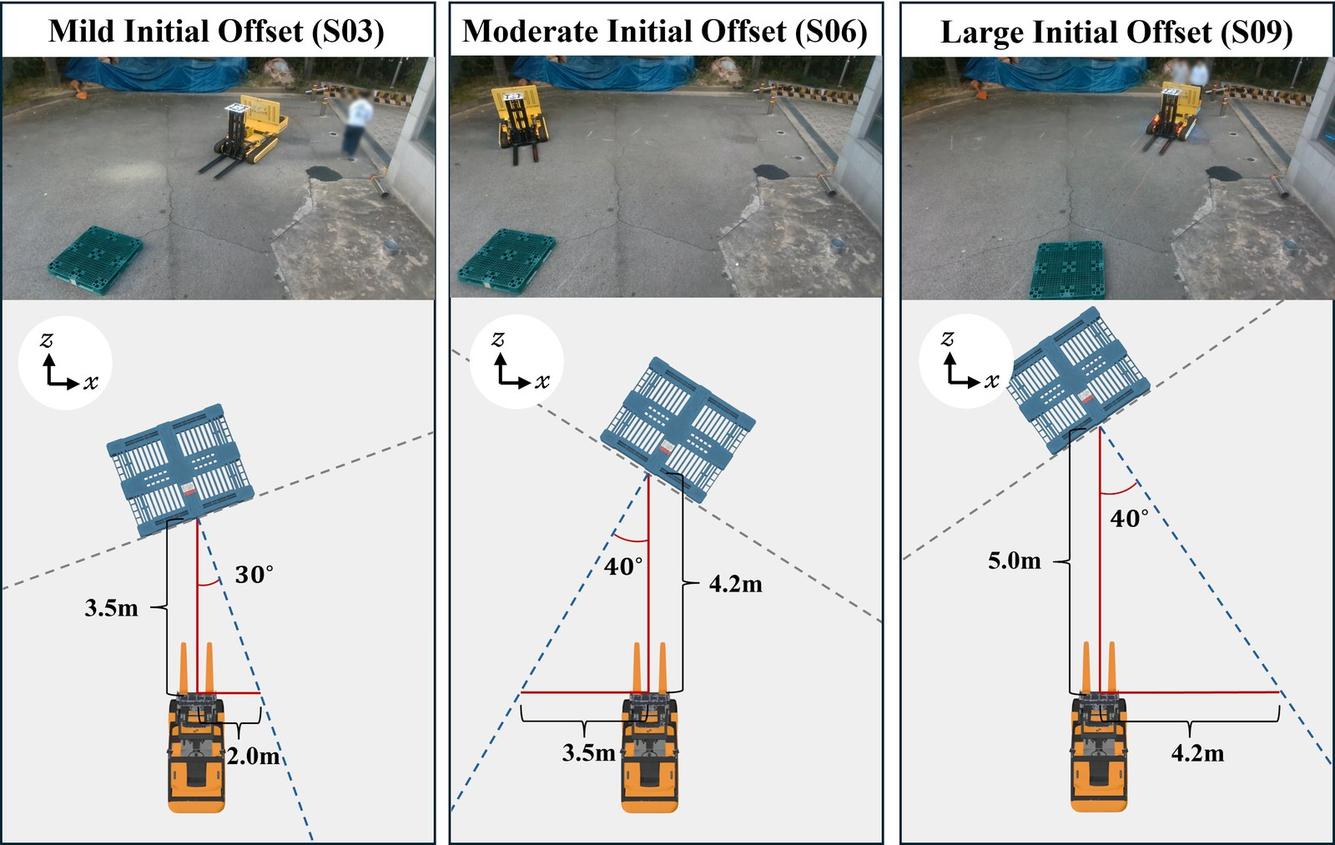
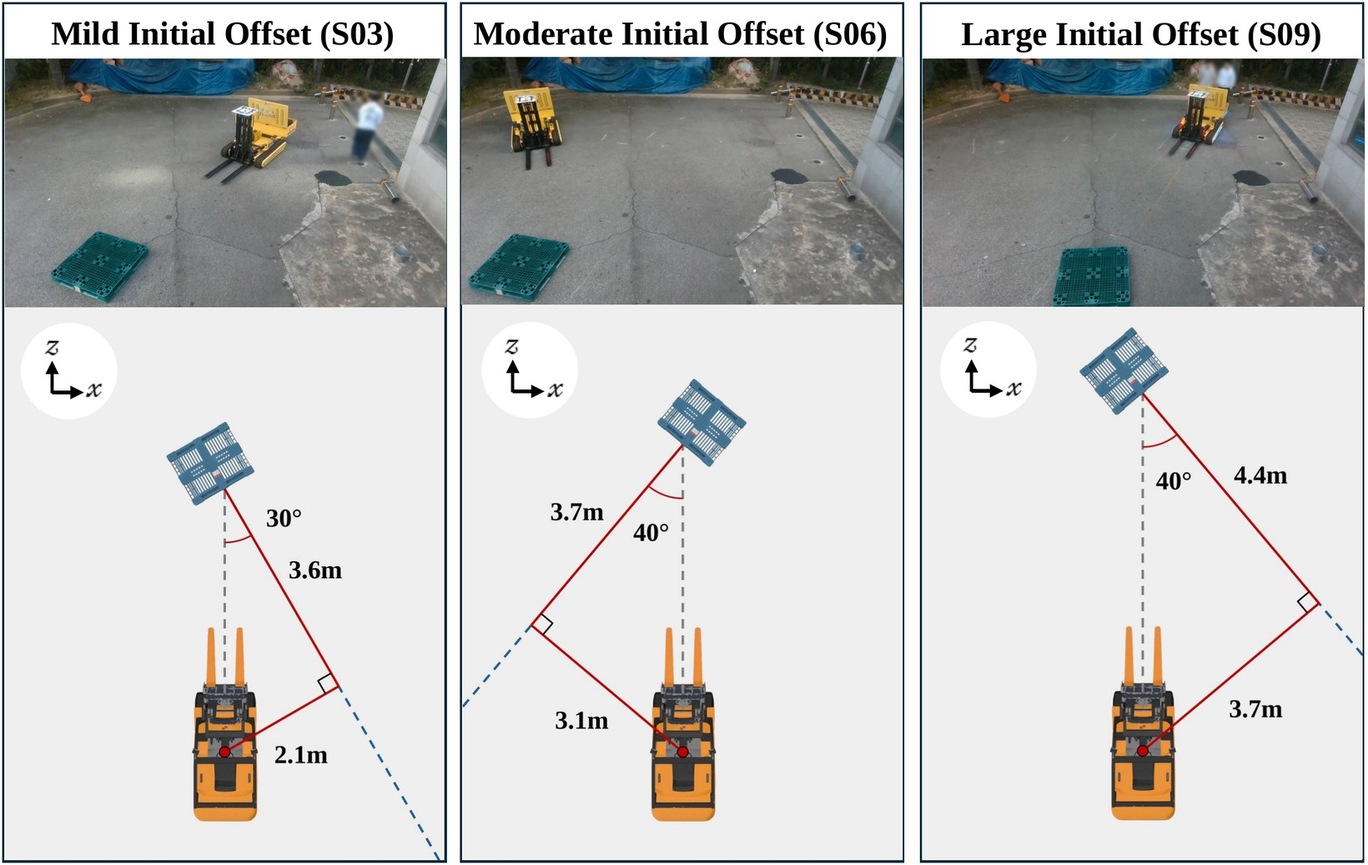
Describe initial configurations relative to the rotation center

diff --git a/index.html b/index.html
@@ -24,8 +24,9 @@
   The overhead camera and the forklift AprilTag are used only for evaluation.
   <a href="https://github.com/Anieyo0/forklift-pallet-alignment">Repository</a></p>
   <img class="fig" src="assets/representative_initial_configs.jpg" alt="Representative initial configurations (S03, S06, S09)">
+  <p class="sub">Distances are measured from the forklift's rotation center c, the center of the tracked base, which lies 0.68 m behind the camera. d<sub>lateral</sub> is the perpendicular distance from c to the pallet insertion axis (the line through the pallet front center along the fork insertion direction); it is positive when c is to the right of the axis, facing the insertion direction. d<sub>forward</sub> is the distance from c to the pallet front, measured along the insertion axis. ψ is the pallet yaw, the angle between the fork insertion direction and the camera forward axis (clockwise positive, viewed from above). When d<sub>lateral</sub> = 0 and ψ = 0, the forklift centerline lies on the insertion axis. Distances are rounded to 0.1 m.</p>
   <section id="S01">
-    <h2>S01 <span>Mild initial offset · 3.0 m ahead, yaw 0° · lateral offset 0.0 m</span></h2>
+    <h2>S01 <span>Mild initial offset · d<sub>forward</sub> 3.7 m · d<sub>lateral</sub> 0.0 m · ψ 0°</span></h2>
     <div class="row">
       <figure><video controls preload="none" poster="scenarios/S01/S01_A.jpg" src="scenarios/S01/S01_A_trajectory.mp4"></video><figcaption>Trial A</figcaption></figure>
       <figure><video controls preload="none" poster="scenarios/S01/S01_B.jpg" src="scenarios/S01/S01_B_trajectory.mp4"></video><figcaption>Trial B</figcaption></figure>
@@ -33,7 +34,7 @@
     </div>
   </section>
   <section id="S02">
-    <h2>S02 <span>Mild initial offset · 3.2 m ahead, yaw +15° · lateral offset 0.9 m</span></h2>
+    <h2>S02 <span>Mild initial offset · d<sub>forward</sub> 3.7 m · d<sub>lateral</sub> 1.0 m · ψ +15°</span></h2>
     <div class="row">
       <figure><video controls preload="none" poster="scenarios/S02/S02_A.jpg" src="scenarios/S02/S02_A_trajectory.mp4"></video><figcaption>Trial A</figcaption></figure>
       <figure><video controls preload="none" poster="scenarios/S02/S02_B.jpg" src="scenarios/S02/S02_B_trajectory.mp4"></video><figcaption>Trial B</figcaption></figure>
@@ -41,7 +42,7 @@
     </div>
   </section>
   <section id="S03">
-    <h2>S03 <span>Mild initial offset · 3.5 m ahead, yaw -30° · lateral offset -2.0 m</span></h2>
+    <h2>S03 <span>Mild initial offset · d<sub>forward</sub> 3.6 m · d<sub>lateral</sub> -2.1 m · ψ -30°</span></h2>
     <div class="row">
       <figure><video controls preload="none" poster="scenarios/S03/S03_A.jpg" src="scenarios/S03/S03_A_trajectory.mp4"></video><figcaption>Trial A</figcaption></figure>
       <figure><video controls preload="none" poster="scenarios/S03/S03_B.jpg" src="scenarios/S03/S03_B_trajectory.mp4"></video><figcaption>Trial B</figcaption></figure>
@@ -49,7 +50,7 @@
     </div>
   </section>
   <section id="S04">
-    <h2>S04 <span>Moderate initial offset · 3.8 m ahead, yaw +30° · lateral offset 2.2 m</span></h2>
+    <h2>S04 <span>Moderate initial offset · d<sub>forward</sub> 3.9 m · d<sub>lateral</sub> 2.2 m · ψ +30°</span></h2>
     <div class="row">
       <figure><video controls preload="none" poster="scenarios/S04/S04_A.jpg" src="scenarios/S04/S04_A_trajectory.mp4"></video><figcaption>Trial A</figcaption></figure>
       <figure><video controls preload="none" poster="scenarios/S04/S04_B.jpg" src="scenarios/S04/S04_B_trajectory.mp4"></video><figcaption>Trial B</figcaption></figure>
@@ -57,7 +58,7 @@
     </div>
   </section>
   <section id="S05">
-    <h2>S05 <span>Moderate initial offset · 4.0 m ahead, yaw -30° · lateral offset -2.3 m</span></h2>
+    <h2>S05 <span>Moderate initial offset · d<sub>forward</sub> 4.1 m · d<sub>lateral</sub> -2.3 m · ψ -30°</span></h2>
     <div class="row">
       <figure><video controls preload="none" poster="scenarios/S05/S05_A.jpg" src="scenarios/S05/S05_A_trajectory.mp4"></video><figcaption>Trial A</figcaption></figure>
       <figure><video controls preload="none" poster="scenarios/S05/S05_B.jpg" src="scenarios/S05/S05_B_trajectory.mp4"></video><figcaption>Trial B</figcaption></figure>
@@ -65,7 +66,7 @@
     </div>
   </section>
   <section id="S06">
-    <h2>S06 <span>Moderate initial offset · 4.2 m ahead, yaw +40° · lateral offset 3.5 m</span></h2>
+    <h2>S06 <span>Moderate initial offset · d<sub>forward</sub> 3.7 m · d<sub>lateral</sub> 3.1 m · ψ +40°</span></h2>
     <div class="row">
       <figure><video controls preload="none" poster="scenarios/S06/S06_A.jpg" src="scenarios/S06/S06_A_trajectory.mp4"></video><figcaption>Trial A</figcaption></figure>
       <figure><video controls preload="none" poster="scenarios/S06/S06_B.jpg" src="scenarios/S06/S06_B_trajectory.mp4"></video><figcaption>Trial B</figcaption></figure>
@@ -73,7 +74,7 @@
     </div>
   </section>
   <section id="S07">
-    <h2>S07 <span>Large initial offset · 4.5 m ahead, yaw -40° · lateral offset -3.8 m</span></h2>
+    <h2>S07 <span>Large initial offset · d<sub>forward</sub> 4.0 m · d<sub>lateral</sub> -3.3 m · ψ -40°</span></h2>
     <div class="row">
       <figure><video controls preload="none" poster="scenarios/S07/S07_A.jpg" src="scenarios/S07/S07_A_trajectory.mp4"></video><figcaption>Trial A</figcaption></figure>
       <figure><video controls preload="none" poster="scenarios/S07/S07_B.jpg" src="scenarios/S07/S07_B_trajectory.mp4"></video><figcaption>Trial B</figcaption></figure>
@@ -81,7 +82,7 @@
     </div>
   </section>
   <section id="S08">
-    <h2>S08 <span>Large initial offset · 4.7 m ahead, yaw +40° · lateral offset 3.9 m</span></h2>
+    <h2>S08 <span>Large initial offset · d<sub>forward</sub> 4.1 m · d<sub>lateral</sub> 3.5 m · ψ +40°</span></h2>
     <div class="row">
       <figure><video controls preload="none" poster="scenarios/S08/S08_A.jpg" src="scenarios/S08/S08_A_trajectory.mp4"></video><figcaption>Trial A</figcaption></figure>
       <figure><video controls preload="none" poster="scenarios/S08/S08_B.jpg" src="scenarios/S08/S08_B_trajectory.mp4"></video><figcaption>Trial B</figcaption></figure>
@@ -89,7 +90,7 @@
     </div>
   </section>
   <section id="S09">
-    <h2>S09 <span>Large initial offset · 5.0 m ahead, yaw -40° · lateral offset -4.2 m</span></h2>
+    <h2>S09 <span>Large initial offset · d<sub>forward</sub> 4.4 m · d<sub>lateral</sub> -3.7 m · ψ -40°</span></h2>
     <div class="row">
       <figure><video controls preload="none" poster="scenarios/S09/S09_A.jpg" src="scenarios/S09/S09_A_trajectory.mp4"></video><figcaption>Trial A</figcaption></figure>
       <figure><video controls preload="none" poster="scenarios/S09/S09_B.jpg" src="scenarios/S09/S09_B_trajectory.mp4"></video><figcaption>Trial B</figcaption></figure>

diff --git a/README.md b/README.md
@@ -22,22 +22,22 @@ are used **only for evaluation**; they are not inputs to the controller.
 <img src="assets/representative_initial_configs.jpg" width="820">
 
 Representative initial configurations of the three groups (S03, S06, S09).
-In every scenario the pallet front center is placed on the camera forward axis. d<sub>forward</sub> is the forward distance from the camera to the pallet front, ψ is the pallet yaw, the angle between the fork insertion direction and the camera forward axis (clockwise positive, viewed from above), and δ<sub>0</sub> = d<sub>forward</sub> tan ψ is the lateral offset of the camera from the pallet insertion axis.
+In every scenario the pallet front center is placed straight ahead of the camera. Distances are measured from the forklift's rotation center c, the center of the tracked base, which lies 0.68 m behind the camera. d<sub>lateral</sub> is the perpendicular distance from c to the pallet insertion axis (the line through the pallet front center along the fork insertion direction); it is positive when c is to the right of the axis, facing the insertion direction. d<sub>forward</sub> is the distance from c to the pallet front, measured along the insertion axis. ψ is the pallet yaw, the angle between the fork insertion direction and the camera forward axis (clockwise positive, viewed from above). When d<sub>lateral</sub> = 0 and ψ = 0, the forklift centerline lies on the insertion axis. Distances are rounded to 0.1 m.
 Scenarios are grouped into Mild, Moderate and Large by the size of the initial offset.
 
 Thumbnails show the first frame of each video. Click a scenario for its page, or a thumbnail to open the video.
 
-| Group | Scenario | d<sub>forward</sub> (m) | ψ (°) | δ<sub>0</sub> (m) | Trial A | Trial B | Trial C |
+| Group | Scenario | d<sub>forward</sub> (m) | d<sub>lateral</sub> (m) | ψ (°) | Trial A | Trial B | Trial C |
 |---|---|---|---|---|---|---|---|
-| Mild | [**S01**](scenarios/S01) | 3.0 | 0 | 0.0 | [<img src="scenarios/S01/S01_A.jpg" width="160">](scenarios/S01/S01_A_trajectory.mp4) | [<img src="scenarios/S01/S01_B.jpg" width="160">](scenarios/S01/S01_B_trajectory.mp4) | [<img src="scenarios/S01/S01_C.jpg" width="160">](scenarios/S01/S01_C_trajectory.mp4) |
-|  | [**S02**](scenarios/S02) | 3.2 | 15 | 0.9 | [<img src="scenarios/S02/S02_A.jpg" width="160">](scenarios/S02/S02_A_trajectory.mp4) | [<img src="scenarios/S02/S02_B.jpg" width="160">](scenarios/S02/S02_B_trajectory.mp4) | [<img src="scenarios/S02/S02_C.jpg" width="160">](scenarios/S02/S02_C_trajectory.mp4) |
-|  | [**S03**](scenarios/S03) | 3.5 | -30 | -2.0 | [<img src="scenarios/S03/S03_A.jpg" width="160">](scenarios/S03/S03_A_trajectory.mp4) | [<img src="scenarios/S03/S03_B.jpg" width="160">](scenarios/S03/S03_B_trajectory.mp4) | [<img src="scenarios/S03/S03_C.jpg" width="160">](scenarios/S03/S03_C_trajectory.mp4) |
-| Moderate | [**S04**](scenarios/S04) | 3.8 | 30 | 2.2 | [<img src="scenarios/S04/S04_A.jpg" width="160">](scenarios/S04/S04_A_trajectory.mp4) | [<img src="scenarios/S04/S04_B.jpg" width="160">](scenarios/S04/S04_B_trajectory.mp4) | [<img src="scenarios/S04/S04_C.jpg" width="160">](scenarios/S04/S04_C_trajectory.mp4) |
-|  | [**S05**](scenarios/S05) | 4.0 | -30 | -2.3 | [<img src="scenarios/S05/S05_A.jpg" width="160">](scenarios/S05/S05_A_trajectory.mp4) | [<img src="scenarios/S05/S05_B.jpg" width="160">](scenarios/S05/S05_B_trajectory.mp4) | [<img src="scenarios/S05/S05_C.jpg" width="160">](scenarios/S05/S05_C_trajectory.mp4) |
-|  | [**S06**](scenarios/S06) | 4.2 | 40 | 3.5 | [<img src="scenarios/S06/S06_A.jpg" width="160">](scenarios/S06/S06_A_trajectory.mp4) | [<img src="scenarios/S06/S06_B.jpg" width="160">](scenarios/S06/S06_B_trajectory.mp4) | [<img src="scenarios/S06/S06_C.jpg" width="160">](scenarios/S06/S06_C_trajectory.mp4) |
-| Large | [**S07**](scenarios/S07) | 4.5 | -40 | -3.8 | [<img src="scenarios/S07/S07_A.jpg" width="160">](scenarios/S07/S07_A_trajectory.mp4) | [<img src="scenarios/S07/S07_B.jpg" width="160">](scenarios/S07/S07_B_trajectory.mp4) | [<img src="scenarios/S07/S07_C.jpg" width="160">](scenarios/S07/S07_C_trajectory.mp4) |
-|  | [**S08**](scenarios/S08) | 4.7 | 40 | 3.9 | [<img src="scenarios/S08/S08_A.jpg" width="160">](scenarios/S08/S08_A_trajectory.mp4) | [<img src="scenarios/S08/S08_B.jpg" width="160">](scenarios/S08/S08_B_trajectory.mp4) | [<img src="scenarios/S08/S08_C.jpg" width="160">](scenarios/S08/S08_C_trajectory.mp4) |
-|  | [**S09**](scenarios/S09) | 5.0 | -40 | -4.2 | [<img src="scenarios/S09/S09_A.jpg" width="160">](scenarios/S09/S09_A_trajectory.mp4) | [<img src="scenarios/S09/S09_B.jpg" width="160">](scenarios/S09/S09_B_trajectory.mp4) | [<img src="scenarios/S09/S09_C.jpg" width="160">](scenarios/S09/S09_C_trajectory.mp4) |
+| Mild | [**S01**](scenarios/S01) | 3.7 | 0.0 | 0 | [<img src="scenarios/S01/S01_A.jpg" width="160">](scenarios/S01/S01_A_trajectory.mp4) | [<img src="scenarios/S01/S01_B.jpg" width="160">](scenarios/S01/S01_B_trajectory.mp4) | [<img src="scenarios/S01/S01_C.jpg" width="160">](scenarios/S01/S01_C_trajectory.mp4) |
+|  | [**S02**](scenarios/S02) | 3.7 | 1.0 | 15 | [<img src="scenarios/S02/S02_A.jpg" width="160">](scenarios/S02/S02_A_trajectory.mp4) | [<img src="scenarios/S02/S02_B.jpg" width="160">](scenarios/S02/S02_B_trajectory.mp4) | [<img src="scenarios/S02/S02_C.jpg" width="160">](scenarios/S02/S02_C_trajectory.mp4) |
+|  | [**S03**](scenarios/S03) | 3.6 | -2.1 | -30 | [<img src="scenarios/S03/S03_A.jpg" width="160">](scenarios/S03/S03_A_trajectory.mp4) | [<img src="scenarios/S03/S03_B.jpg" width="160">](scenarios/S03/S03_B_trajectory.mp4) | [<img src="scenarios/S03/S03_C.jpg" width="160">](scenarios/S03/S03_C_trajectory.mp4) |
+| Moderate | [**S04**](scenarios/S04) | 3.9 | 2.2 | 30 | [<img src="scenarios/S04/S04_A.jpg" width="160">](scenarios/S04/S04_A_trajectory.mp4) | [<img src="scenarios/S04/S04_B.jpg" width="160">](scenarios/S04/S04_B_trajectory.mp4) | [<img src="scenarios/S04/S04_C.jpg" width="160">](scenarios/S04/S04_C_trajectory.mp4) |
+|  | [**S05**](scenarios/S05) | 4.1 | -2.3 | -30 | [<img src="scenarios/S05/S05_A.jpg" width="160">](scenarios/S05/S05_A_trajectory.mp4) | [<img src="scenarios/S05/S05_B.jpg" width="160">](scenarios/S05/S05_B_trajectory.mp4) | [<img src="scenarios/S05/S05_C.jpg" width="160">](scenarios/S05/S05_C_trajectory.mp4) |
+|  | [**S06**](scenarios/S06) | 3.7 | 3.1 | 40 | [<img src="scenarios/S06/S06_A.jpg" width="160">](scenarios/S06/S06_A_trajectory.mp4) | [<img src="scenarios/S06/S06_B.jpg" width="160">](scenarios/S06/S06_B_trajectory.mp4) | [<img src="scenarios/S06/S06_C.jpg" width="160">](scenarios/S06/S06_C_trajectory.mp4) |
+| Large | [**S07**](scenarios/S07) | 4.0 | -3.3 | -40 | [<img src="scenarios/S07/S07_A.jpg" width="160">](scenarios/S07/S07_A_trajectory.mp4) | [<img src="scenarios/S07/S07_B.jpg" width="160">](scenarios/S07/S07_B_trajectory.mp4) | [<img src="scenarios/S07/S07_C.jpg" width="160">](scenarios/S07/S07_C_trajectory.mp4) |
+|  | [**S08**](scenarios/S08) | 4.1 | 3.5 | 40 | [<img src="scenarios/S08/S08_A.jpg" width="160">](scenarios/S08/S08_A_trajectory.mp4) | [<img src="scenarios/S08/S08_B.jpg" width="160">](scenarios/S08/S08_B_trajectory.mp4) | [<img src="scenarios/S08/S08_C.jpg" width="160">](scenarios/S08/S08_C_trajectory.mp4) |
+|  | [**S09**](scenarios/S09) | 4.4 | -3.7 | -40 | [<img src="scenarios/S09/S09_A.jpg" width="160">](scenarios/S09/S09_A_trajectory.mp4) | [<img src="scenarios/S09/S09_B.jpg" width="160">](scenarios/S09/S09_B_trajectory.mp4) | [<img src="scenarios/S09/S09_C.jpg" width="160">](scenarios/S09/S09_C_trajectory.mp4) |
 
 Each video shows the overhead top-view recording with the tracked forklift trajectory and a scenario label.
 Audio tracks and file metadata were removed from all videos. People appearing in the videos consented to publication.

diff --git a/scenarios/S03/README.md b/scenarios/S03/README.md
@@ -4,11 +4,11 @@
 
 ## Initial configuration
 
-| d<sub>forward</sub> (m) | ψ (°) | δ<sub>0</sub> (m) |
+| d<sub>forward</sub> (m) | d<sub>lateral</sub> (m) | ψ (°) |
 |---|---|---|
-| 3.5 | -30 | -2.0 |
+| 3.6 | -2.1 | -30 |
 
-The pallet front center is placed on the camera forward axis. d<sub>forward</sub> is the forward distance from the camera to the pallet front, ψ is the pallet yaw, the angle between the fork insertion direction and the camera forward axis (clockwise positive, viewed from above), and δ<sub>0</sub> = d<sub>forward</sub> tan ψ is the lateral offset of the camera from the pallet insertion axis.
+The pallet front center is placed straight ahead of the camera. Distances are measured from the forklift's rotation center c, the center of the tracked base, which lies 0.68 m behind the camera. d<sub>lateral</sub> is the perpendicular distance from c to the pallet insertion axis (the line through the pallet front center along the fork insertion direction); it is positive when c is to the right of the axis, facing the insertion direction. d<sub>forward</sub> is the distance from c to the pallet front, measured along the insertion axis. ψ is the pallet yaw, the angle between the fork insertion direction and the camera forward axis (clockwise positive, viewed from above). When d<sub>lateral</sub> = 0 and ψ = 0, the forklift centerline lies on the insertion axis. Distances are rounded to 0.1 m.
 
 ## Trials
 

diff --git a/scenarios/S05/README.md b/scenarios/S05/README.md
@@ -4,11 +4,11 @@
 
 ## Initial configuration
 
-| d<sub>forward</sub> (m) | ψ (°) | δ<sub>0</sub> (m) |
+| d<sub>forward</sub> (m) | d<sub>lateral</sub> (m) | ψ (°) |
 |---|---|---|
-| 4.0 | -30 | -2.3 |
+| 4.1 | -2.3 | -30 |
 
-The pallet front center is placed on the camera forward axis. d<sub>forward</sub> is the forward distance from the camera to the pallet front, ψ is the pallet yaw, the angle between the fork insertion direction and the camera forward axis (clockwise positive, viewed from above), and δ<sub>0</sub> = d<sub>forward</sub> tan ψ is the lateral offset of the camera from the pallet insertion axis.
+The pallet front center is placed straight ahead of the camera. Distances are measured from the forklift's rotation center c, the center of the tracked base, which lies 0.68 m behind the camera. d<sub>lateral</sub> is the perpendicular distance from c to the pallet insertion axis (the line through the pallet front center along the fork insertion direction); it is positive when c is to the right of the axis, facing the insertion direction. d<sub>forward</sub> is the distance from c to the pallet front, measured along the insertion axis. ψ is the pallet yaw, the angle between the fork insertion direction and the camera forward axis (clockwise positive, viewed from above). When d<sub>lateral</sub> = 0 and ψ = 0, the forklift centerline lies on the insertion axis. Distances are rounded to 0.1 m.
 
 ## Trials
 

diff --git a/scenarios/S07/README.md b/scenarios/S07/README.md
@@ -4,11 +4,11 @@
 
 ## Initial configuration
 
-| d<sub>forward</sub> (m) | ψ (°) | δ<sub>0</sub> (m) |
+| d<sub>forward</sub> (m) | d<sub>lateral</sub> (m) | ψ (°) |
 |---|---|---|
-| 4.5 | -40 | -3.8 |
+| 4.0 | -3.3 | -40 |
 
-The pallet front center is placed on the camera forward axis. d<sub>forward</sub> is the forward distance from the camera to the pallet front, ψ is the pallet yaw, the angle between the fork insertion direction and the camera forward axis (clockwise positive, viewed from above), and δ<sub>0</sub> = d<sub>forward</sub> tan ψ is the lateral offset of the camera from the pallet insertion axis.
+The pallet front center is placed straight ahead of the camera. Distances are measured from the forklift's rotation center c, the center of the tracked base, which lies 0.68 m behind the camera. d<sub>lateral</sub> is the perpendicular distance from c to the pallet insertion axis (the line through the pallet front center along the fork insertion direction); it is positive when c is to the right of the axis, facing the insertion direction. d<sub>forward</sub> is the distance from c to the pallet front, measured along the insertion axis. ψ is the pallet yaw, the angle between the fork insertion direction and the camera forward axis (clockwise positive, viewed from above). When d<sub>lateral</sub> = 0 and ψ = 0, the forklift centerline lies on the insertion axis. Distances are rounded to 0.1 m.
 
 ## Trials
 

diff --git a/scenarios/S09/README.md b/scenarios/S09/README.md
@@ -4,11 +4,11 @@
 
 ## Initial configuration
 
-| d<sub>forward</sub> (m) | ψ (°) | δ<sub>0</sub> (m) |
+| d<sub>forward</sub> (m) | d<sub>lateral</sub> (m) | ψ (°) |
 |---|---|---|
-| 5.0 | -40 | -4.2 |
+| 4.4 | -3.7 | -40 |
 
-The pallet front center is placed on the camera forward axis. d<sub>forward</sub> is the forward distance from the camera to the pallet front, ψ is the pallet yaw, the angle between the fork insertion direction and the camera forward axis (clockwise positive, viewed from above), and δ<sub>0</sub> = d<sub>forward</sub> tan ψ is the lateral offset of the camera from the pallet insertion axis.
+The pallet front center is placed straight ahead of the camera. Distances are measured from the forklift's rotation center c, the center of the tracked base, which lies 0.68 m behind the camera. d<sub>lateral</sub> is the perpendicular distance from c to the pallet insertion axis (the line through the pallet front center along the fork insertion direction); it is positive when c is to the right of the axis, facing the insertion direction. d<sub>forward</sub> is the distance from c to the pallet front, measured along the insertion axis. ψ is the pallet yaw, the angle between the fork insertion direction and the camera forward axis (clockwise positive, viewed from above). When d<sub>lateral</sub> = 0 and ψ = 0, the forklift centerline lies on the insertion axis. Distances are rounded to 0.1 m.
 
 ## Trials
 

diff --git a/scenarios/S02/README.md b/scenarios/S02/README.md
@@ -4,11 +4,11 @@
 
 ## Initial configuration
 
-| d<sub>forward</sub> (m) | ψ (°) | δ<sub>0</sub> (m) |
+| d<sub>forward</sub> (m) | d<sub>lateral</sub> (m) | ψ (°) |
 |---|---|---|
-| 3.2 | 15 | 0.9 |
+| 3.7 | 1.0 | 15 |
 
-The pallet front center is placed on the camera forward axis. d<sub>forward</sub> is the forward distance from the camera to the pallet front, ψ is the pallet yaw, the angle between the fork insertion direction and the camera forward axis (clockwise positive, viewed from above), and δ<sub>0</sub> = d<sub>forward</sub> tan ψ is the lateral offset of the camera from the pallet insertion axis.
+The pallet front center is placed straight ahead of the camera. Distances are measured from the forklift's rotation center c, the center of the tracked base, which lies 0.68 m behind the camera. d<sub>lateral</sub> is the perpendicular distance from c to the pallet insertion axis (the line through the pallet front center along the fork insertion direction); it is positive when c is to the right of the axis, facing the insertion direction. d<sub>forward</sub> is the distance from c to the pallet front, measured along the insertion axis. ψ is the pallet yaw, the angle between the fork insertion direction and the camera forward axis (clockwise positive, viewed from above). When d<sub>lateral</sub> = 0 and ψ = 0, the forklift centerline lies on the insertion axis. Distances are rounded to 0.1 m.
 
 ## Trials
 

diff --git a/scenarios/S04/README.md b/scenarios/S04/README.md
@@ -4,11 +4,11 @@
 
 ## Initial configuration
 
-| d<sub>forward</sub> (m) | ψ (°) | δ<sub>0</sub> (m) |
+| d<sub>forward</sub> (m) | d<sub>lateral</sub> (m) | ψ (°) |
 |---|---|---|
-| 3.8 | 30 | 2.2 |
+| 3.9 | 2.2 | 30 |
 
-The pallet front center is placed on the camera forward axis. d<sub>forward</sub> is the forward distance from the camera to the pallet front, ψ is the pallet yaw, the angle between the fork insertion direction and the camera forward axis (clockwise positive, viewed from above), and δ<sub>0</sub> = d<sub>forward</sub> tan ψ is the lateral offset of the camera from the pallet insertion axis.
+The pallet front center is placed straight ahead of the camera. Distances are measured from the forklift's rotation center c, the center of the tracked base, which lies 0.68 m behind the camera. d<sub>lateral</sub> is the perpendicular distance from c to the pallet insertion axis (the line through the pallet front center along the fork insertion direction); it is positive when c is to the right of the axis, facing the insertion direction. d<sub>forward</sub> is the distance from c to the pallet front, measured along the insertion axis. ψ is the pallet yaw, the angle between the fork insertion direction and the camera forward axis (clockwise positive, viewed from above). When d<sub>lateral</sub> = 0 and ψ = 0, the forklift centerline lies on the insertion axis. Distances are rounded to 0.1 m.
 
 ## Trials
 

diff --git a/scenarios/S06/README.md b/scenarios/S06/README.md
@@ -4,11 +4,11 @@
 
 ## Initial configuration
 
-| d<sub>forward</sub> (m) | ψ (°) | δ<sub>0</sub> (m) |
+| d<sub>forward</sub> (m) | d<sub>lateral</sub> (m) | ψ (°) |
 |---|---|---|
-| 4.2 | 40 | 3.5 |
+| 3.7 | 3.1 | 40 |
 
-The pallet front center is placed on the camera forward axis. d<sub>forward</sub> is the forward distance from the camera to the pallet front, ψ is the pallet yaw, the angle between the fork insertion direction and the camera forward axis (clockwise positive, viewed from above), and δ<sub>0</sub> = d<sub>forward</sub> tan ψ is the lateral offset of the camera from the pallet insertion axis.
+The pallet front center is placed straight ahead of the camera. Distances are measured from the forklift's rotation center c, the center of the tracked base, which lies 0.68 m behind the camera. d<sub>lateral</sub> is the perpendicular distance from c to the pallet insertion axis (the line through the pallet front center along the fork insertion direction); it is positive when c is to the right of the axis, facing the insertion direction. d<sub>forward</sub> is the distance from c to the pallet front, measured along the insertion axis. ψ is the pallet yaw, the angle between the fork insertion direction and the camera forward axis (clockwise positive, viewed from above). When d<sub>lateral</sub> = 0 and ψ = 0, the forklift centerline lies on the insertion axis. Distances are rounded to 0.1 m.
 
 ## Trials
 

diff --git a/scenarios/S08/README.md b/scenarios/S08/README.md
@@ -4,11 +4,11 @@
 
 ## Initial configuration
 
-| d<sub>forward</sub> (m) | ψ (°) | δ<sub>0</sub> (m) |
+| d<sub>forward</sub> (m) | d<sub>lateral</sub> (m) | ψ (°) |
 |---|---|---|
-| 4.7 | 40 | 3.9 |
+| 4.1 | 3.5 | 40 |
 
-The pallet front center is placed on the camera forward axis. d<sub>forward</sub> is the forward distance from the camera to the pallet front, ψ is the pallet yaw, the angle between the fork insertion direction and the camera forward axis (clockwise positive, viewed from above), and δ<sub>0</sub> = d<sub>forward</sub> tan ψ is the lateral offset of the camera from the pallet insertion axis.
+The pallet front center is placed straight ahead of the camera. Distances are measured from the forklift's rotation center c, the center of the tracked base, which lies 0.68 m behind the camera. d<sub>lateral</sub> is the perpendicular distance from c to the pallet insertion axis (the line through the pallet front center along the fork insertion direction); it is positive when c is to the right of the axis, facing the insertion direction. d<sub>forward</sub> is the distance from c to the pallet front, measured along the insertion axis. ψ is the pallet yaw, the angle between the fork insertion direction and the camera forward axis (clockwise positive, viewed from above). When d<sub>lateral</sub> = 0 and ψ = 0, the forklift centerline lies on the insertion axis. Distances are rounded to 0.1 m.
 
 ## Trials
 

diff --git a/scenarios/S01/README.md b/scenarios/S01/README.md
@@ -4,11 +4,11 @@
 
 ## Initial configuration
 
-| d<sub>forward</sub> (m) | ψ (°) | δ<sub>0</sub> (m) |
+| d<sub>forward</sub> (m) | d<sub>lateral</sub> (m) | ψ (°) |
 |---|---|---|
-| 3.0 | 0 | 0.0 |
+| 3.7 | 0.0 | 0 |
 
-The pallet front center is placed on the camera forward axis. d<sub>forward</sub> is the forward distance from the camera to the pallet front, ψ is the pallet yaw, the angle between the fork insertion direction and the camera forward axis (clockwise positive, viewed from above), and δ<sub>0</sub> = d<sub>forward</sub> tan ψ is the lateral offset of the camera from the pallet insertion axis.
+The pallet front center is placed straight ahead of the camera. Distances are measured from the forklift's rotation center c, the center of the tracked base, which lies 0.68 m behind the camera. d<sub>lateral</sub> is the perpendicular distance from c to the pallet insertion axis (the line through the pallet front center along the fork insertion direction); it is positive when c is to the right of the axis, facing the insertion direction. d<sub>forward</sub> is the distance from c to the pallet front, measured along the insertion axis. ψ is the pallet yaw, the angle between the fork insertion direction and the camera forward axis (clockwise positive, viewed from above). When d<sub>lateral</sub> = 0 and ψ = 0, the forklift centerline lies on the insertion axis. Distances are rounded to 0.1 m.
 
 ## Trials
 
